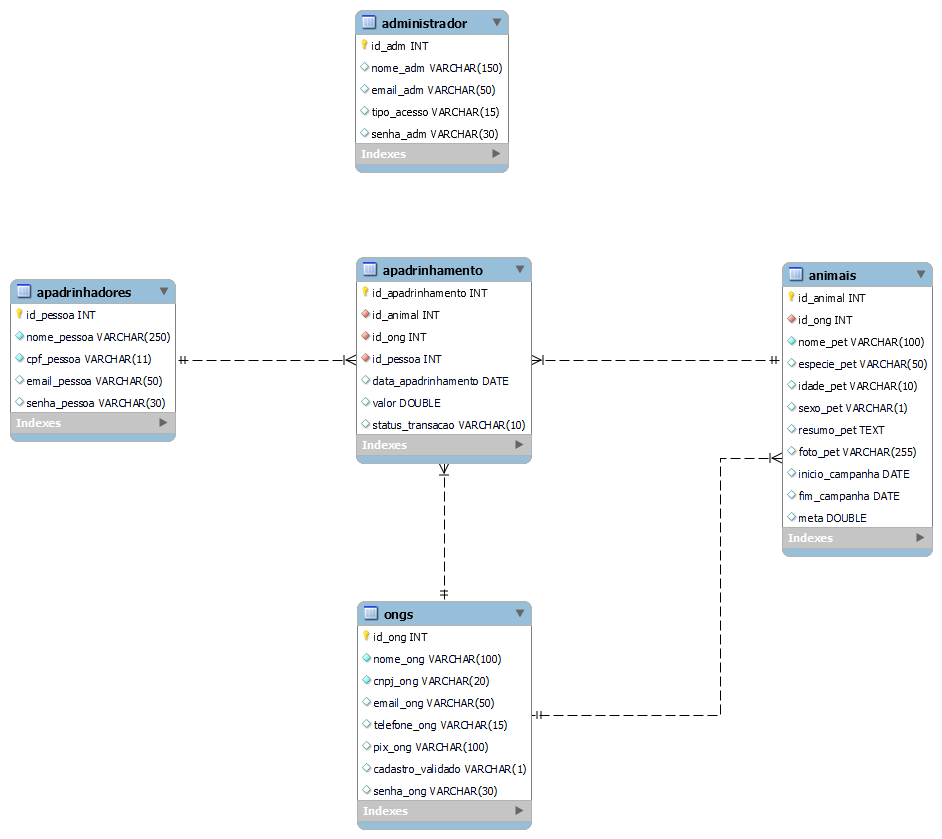
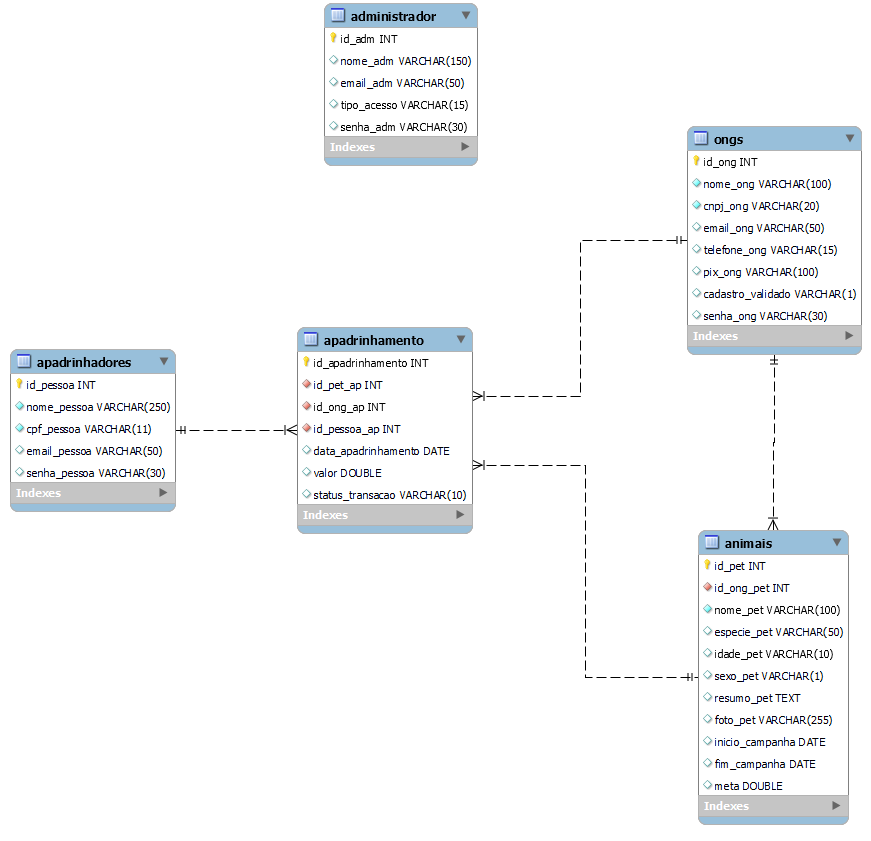
Inclusão de serviço API - Relação de apadrinhamento por ONG

diff --git a/apadrinhamento/src/main/java/lovelacetech/apadrinhamento/dto/ApadrinhamentoPorOng.java b/apadrinhamento/src/main/java/lovelacetech/apadrinhamento/dto/ApadrinhamentoPorOng.java
@@ -1,103 +1,68 @@
-package lovelacetech.apadrinhamento.model;
+package lovelacetech.apadrinhamento.dto;
+
 
 import java.time.LocalDate;
 
-import javax.persistence.Column;
-import javax.persistence.Entity;
-import javax.persistence.GeneratedValue;
-import javax.persistence.GenerationType;
-import javax.persistence.Id;
-import javax.persistence.JoinColumn;
-import javax.persistence.ManyToOne;
-import javax.persistence.Table;
 
-import org.springframework.format.annotation.DateTimeFormat;
+import lovelacetech.apadrinhamento.model.Animais;
+import lovelacetech.apadrinhamento.model.Apadrinhadores;
 
-@Entity
-@Table(name="apadrinhamento")
-public class Apadrinhamento {
-	
-	@Column(name="id_apadrinhamento")
-	@Id
-	@GeneratedValue(strategy=GenerationType.IDENTITY)
+
+public class ApadrinhamentoPorOng {
+
 	private Integer id_apadrinhamento;
-	
-	@ManyToOne
-	@JoinColumn(name="id_pet_ap")
 	private Animais animal;
-	
-	@ManyToOne
-	@JoinColumn(name="id_ong_ap")
-	private Ong ong;
-	
-	@ManyToOne
-	@JoinColumn(name="id_pessoa_ap")
 	private Apadrinhadores pessoa;
-	
-	@DateTimeFormat(pattern="dd/MM/YYYY")
-	private LocalDate data_apadrinhamento = LocalDate.now();
-	
-	@Column(name="valor", nullable=true)
+	private LocalDate data_apadrinhamento;
 	private Double valor;
-	
-	@Column(name="status_transacao", length = 10, nullable = true)
 	private String status_transacao;
-
+	public ApadrinhamentoPorOng(Integer id_apadrinhamento, Animais animal, Apadrinhadores pessoa,
+			LocalDate data_apadrinhamento, Double valor, String status_transacao) {
+		super();
+		this.id_apadrinhamento = id_apadrinhamento;
+		this.animal = animal;
+		this.pessoa = pessoa;
+		this.data_apadrinhamento = data_apadrinhamento;
+		this.valor = valor;
+		this.status_transacao = status_transacao;
+	}
 	public Integer getId_apadrinhamento() {
 		return id_apadrinhamento;
 	}
-
 	public void setId_apadrinhamento(Integer id_apadrinhamento) {
 		this.id_apadrinhamento = id_apadrinhamento;
 	}
-
 	public Animais getAnimal() {
 		return animal;
 	}
-
 	public void setAnimal(Animais animal) {
 		this.animal = animal;
 	}
-
-	public Ong getOng() {
-		return ong;
-	}
-
-	public void setOng(Ong ong) {
-		this.ong = ong;
-	}
-
 	public Apadrinhadores getPessoa() {
 		return pessoa;
 	}
-
 	public void setPessoa(Apadrinhadores pessoa) {
 		this.pessoa = pessoa;
 	}
-
 	public LocalDate getData_apadrinhamento() {
 		return data_apadrinhamento;
 	}
-
 	public void setData_apadrinhamento(LocalDate data_apadrinhamento) {
 		this.data_apadrinhamento = data_apadrinhamento;
 	}
-
 	public Double getValor() {
 		return valor;
 	}
-
 	public void setValor(Double valor) {
 		this.valor = valor;
 	}
-
 	public String getStatus_transacao() {
 		return status_transacao;
 	}
-
 	public void setStatus_transacao(String status_transacao) {
 		this.status_transacao = status_transacao;
 	}
-
-
+	
+		
+	
 }

diff --git a/apadrinhamento/src/main/java/lovelacetech/apadrinhamento/dao/ApadrinhamentoDAO.java b/apadrinhamento/src/main/java/lovelacetech/apadrinhamento/dao/ApadrinhamentoDAO.java
@@ -1,9 +1,20 @@
 package lovelacetech.apadrinhamento.dao;
 
+import java.util.ArrayList;
+
+import org.springframework.data.jpa.repository.Query;
 import org.springframework.data.repository.CrudRepository;
+import org.springframework.data.repository.query.Param;
 
 import lovelacetech.apadrinhamento.model.Apadrinhamento;
+import lovelacetech.apadrinhamento.dto.ApadrinhamentoPorOng;
 
 public interface ApadrinhamentoDAO extends CrudRepository<Apadrinhamento, Integer> {
+	
+	@Query("SELECT new "
+		 + "lovelacetech.apadrinhamento.dto.ApadrinhamentoPorOng(a.id_apadrinhamento,a.animal,a.pessoa,a.data_apadrinhamento,a.valor, a.status_transacao) "
+		 + "FROM Apadrinhamento a "
+		 + "WHERE id_ong_pet= :id_ong")
+	public ArrayList<ApadrinhamentoPorOng> buscarPorIdOng(@Param("id_ong")Integer id_ong);
 
 }

diff --git a/apadrinhamento/src/main/java/lovelacetech/apadrinhamento/controller/ApadrinhamentoController.java b/apadrinhamento/src/main/java/lovelacetech/apadrinhamento/controller/ApadrinhamentoController.java
@@ -12,6 +12,7 @@ import org.springframework.web.bind.annotation.PutMapping;
 import org.springframework.web.bind.annotation.RequestBody;
 import org.springframework.web.bind.annotation.RestController;
 
+import lovelacetech.apadrinhamento.dto.ApadrinhamentoPorOng;
 import lovelacetech.apadrinhamento.model.Apadrinhamento;
 import lovelacetech.apadrinhamento.service.IApadrinhamentoService;
 
@@ -58,6 +59,11 @@ public class ApadrinhamentoController {
             return ResponseEntity.ok(res);
         }
         return ResponseEntity.notFound().build();
+    }
+	
+    @GetMapping("/apadrinhamento/idong/{id_ong}")
+    public ArrayList<ApadrinhamentoPorOng> buscarPorIdOng(@PathVariable Integer id_ong) {
+    	return service.buscarPorIdOng(id_ong);
     }
 	
 }

diff --git a/apadrinhamento/src/main/java/lovelacetech/apadrinhamento/service/IApadrinhamentoService.java b/apadrinhamento/src/main/java/lovelacetech/apadrinhamento/service/IApadrinhamentoService.java
@@ -2,6 +2,7 @@ package lovelacetech.apadrinhamento.service;
 
 import java.util.ArrayList;
 
+import lovelacetech.apadrinhamento.dto.ApadrinhamentoPorOng;
 import lovelacetech.apadrinhamento.model.Apadrinhamento;
 
 public interface IApadrinhamentoService {
@@ -9,6 +10,7 @@ public interface IApadrinhamentoService {
 	public Apadrinhamento atualizarDados(Apadrinhamento dados);
 	public ArrayList<Apadrinhamento> buscarTodos();
 	public Apadrinhamento buscarPeloId(Integer id);
-	public void excluirApadrinhamento(Integer id);
+	public void excluirApadrinhamento(Integer id);	
+	public ArrayList<ApadrinhamentoPorOng> buscarPorIdOng(Integer id_ong);
 
 }

diff --git a/apadrinhamento/src/main/java/lovelacetech/apadrinhamento/service/ApadrinhamentoServiceImpl.java b/apadrinhamento/src/main/java/lovelacetech/apadrinhamento/service/ApadrinhamentoServiceImpl.java
@@ -6,6 +6,7 @@ import org.springframework.beans.factory.annotation.Autowired;
 import org.springframework.stereotype.Service;
 
 import lovelacetech.apadrinhamento.dao.ApadrinhamentoDAO;
+import lovelacetech.apadrinhamento.dto.ApadrinhamentoPorOng;
 import lovelacetech.apadrinhamento.model.Apadrinhamento;
 
 @Service
@@ -51,5 +52,11 @@ public class ApadrinhamentoServiceImpl implements IApadrinhamentoService{
 		// TODO Auto-generated method stub
 		
 	}
+	
+	@Override
+	public ArrayList<ApadrinhamentoPorOng> buscarPorIdOng(Integer id_ong){
+		return dao.buscarPorIdOng(id_ong);
+	}
+
 
 }

diff --git a/apadrinhamento/src/main/java/lovelacetech/apadrinhamento/model/Animais.java b/apadrinhamento/src/main/java/lovelacetech/apadrinhamento/model/Animais.java
@@ -21,7 +21,7 @@ public class Animais {
 
     @Id
     @GeneratedValue(strategy= GenerationType.IDENTITY)
-    @Column(name="id_animal")
+    @Column(name="id_pet")
     private Integer id_animal;
 
     @Column(name="nome_pet", length=100, nullable=false)
@@ -52,7 +52,7 @@ public class Animais {
     private Double meta;
 
     @ManyToOne
-	@JoinColumn(name = "id_ong")
+	@JoinColumn(name = "id_ong_pet")
 	@JsonIgnoreProperties("listaAnimais")
 	private Ong id_ong;
 
